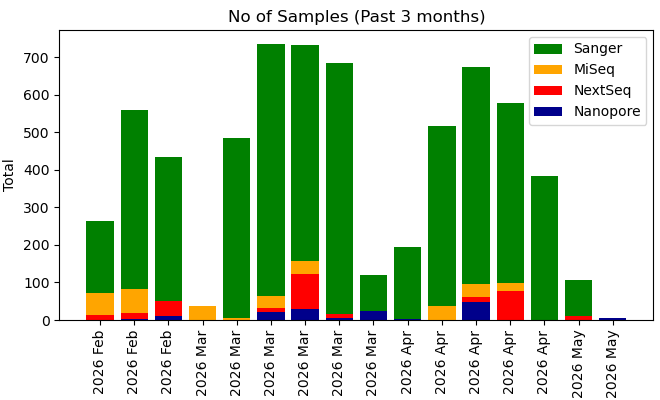
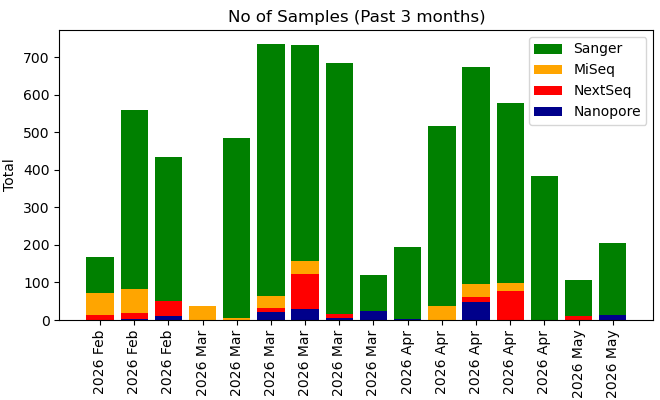
Your commit message here

Changed region(s): [[0.9091, 0.6, 0.9697, 0.81], [0.1212, 0.54, 0.1818, 0.66]]

diff --git a/krona/cgs.html b/krona/cgs.html
@@ -52,8 +52,8 @@ body {
   flex-direction: column;
 }
 </style>
-<H1>Genomics Facility Status: 07:00:16, 07/05/2026</H1>
-<marquee behavior="scroll" scrollamount="20" direction="left" bgcolor="lightgrey">TATTATACCGTCAAGGACTGTGTGACTATTGACGTCCTTCCCCGTACGCCGGGCAATAATGTTTATGTTGGTTTCATGGTTTGGTCTAACTTTACCGCTACTAAATGCCGCGGATTGGTTTCGCTGAATCAGGTTATTAAAGAGATTATTTGTCTCCAGCCACTTAAGTGAGGTGATTTATGTTTGGTGCTATTGCTGGCGGTATTTCTTCTGCTCTTGCTGGTGGCGCCATGTCTAAATTGTTTGGAGGC</marquee>
+<H1>Genomics Facility Status: 07:00:24, 08/05/2026</H1>
+<marquee behavior="scroll" scrollamount="20" direction="left" bgcolor="lightgrey">CCTTCGTATGTTTCTCCTGCTTATCACCTTCTTGAAGGCTTCCCATTCATTCAGGAACCGCCTTCTGGTGATTTGCAAGAACGCGTACTTATTCGCCACCATGATTATGACCAGTGTTTCCAGTCCGTTCAGTTGTTGCAGTGGAATAGTCAGGTTAAATTTAATGTGACCGTTTATCGCAATCTGCCGACCACTCAGATCGGAAGAGCGGTTCAGCAGGAATGCCGAGACCGATCTCGTATGCCGTCTTC</marquee>
 <TABLE BORDER=0><TR><TD><TABLE class="styled-table"><H3>GigaBases Sequenced</H3>
 <TR><TD><b>Platform</b></TD><TD><b>Week</b></TD><TD><b>Month</b></TD><TD><b>Year</b></TD><TD><b>Total</b></TD></TR><TR><TD>Illumina MiSeq</TD><TD>0.0</TD><TD>34.32</TD><TD>353.61</TD><TD>551.42</TD></TR><TR><TD>Illumina NextSeq</TD><TD>35.81</TD><TD>182.4</TD><TD>4511.14</TD><TD>6646.34</TD></TR><TR><TD>Nanopore PromethION</TD><TD>32.33</TD><TD>286.33</TD><TD>7475.41</TD><TD>12165.01</TD></TR><TR><TD>Sanger</TD><TD>0.0</TD><TD>0.0</TD><TD>0.02</TD><TD>0.04</TD></TR></TABLE></TD><TD><IMG SRC="fig1.png"><IMG SRC="fig2.png"></TD></TR><TR><TD><H3>No. Samples (No. Experiments)</H3>
-<TABLE class="styled-table"><TR><TD><b>Platform</b></TD><TD><b>Week</b></TD><TD><b>Month</b></TD><TD><b>Year</b></TD><TD><b>Total</b></TD></TR><TR><TD>Illumina MiSeq</TD><TD>0 (0)</TD><TD>91 (5)</TD><TD>1418 (70)</TD><TD>2430 (98)</TD></TR><TR><TD>Illumina NextSeq</TD><TD>11 (1)</TD><TD>101 (4)</TD><TD>1418 (66)</TD><TD>2186 (87)</TD></TR><TR><TD>Nanopore PromethION</TD><TD>4 (1)</TD><TD>54 (17)</TD><TD>587 (189)</TD><TD>994 (344)</TD></TR><TR><TD>Sanger</TD><TD>192 (192)</TD><TD>2016 (2016)</TD><TD>20923 (20923)</TD><TD>44322 (44322)</TD></TR></TABLE></TD><TD><IMG SRC="fig4.png"></TD></TR></TABLE></HTML>
+<TABLE class="styled-table"><TR><TD><b>Platform</b></TD><TD><b>Week</b></TD><TD><b>Month</b></TD><TD><b>Year</b></TD><TD><b>Total</b></TD></TR><TR><TD>Illumina MiSeq</TD><TD>0 (0)</TD><TD>91 (5)</TD><TD>1418 (70)</TD><TD>2430 (98)</TD></TR><TR><TD>Illumina NextSeq</TD><TD>11 (1)</TD><TD>101 (4)</TD><TD>1418 (66)</TD><TD>2186 (87)</TD></TR><TR><TD>Nanopore PromethION</TD><TD>13 (2)</TD><TD>63 (18)</TD><TD>596 (190)</TD><TD>1003 (345)</TD></TR><TR><TD>Sanger</TD><TD>384 (384)</TD><TD>2208 (2208)</TD><TD>21115 (21115)</TD><TD>44514 (44514)</TD></TR></TABLE></TD><TD><IMG SRC="fig4.png"></TD></TR></TABLE></HTML>
